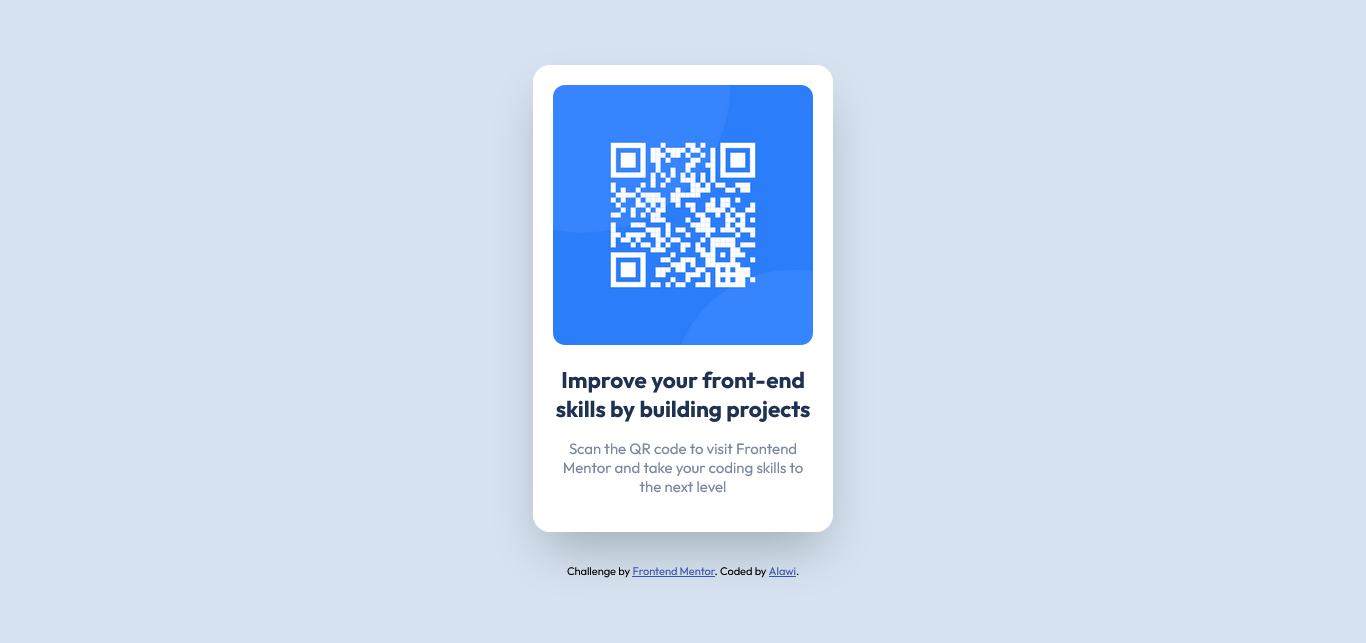
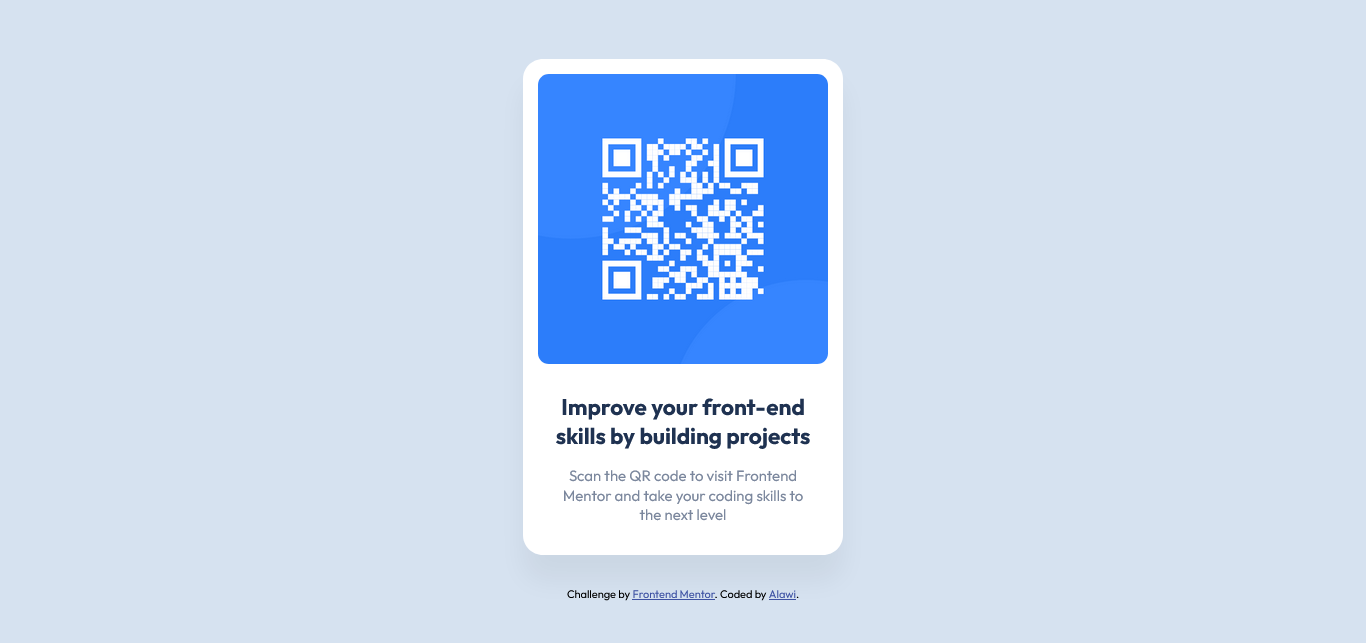
some changes

Changed region(s): [[0.369, 0.0933, 0.6149, 0.9331]]

diff --git a/style.css b/style.css
@@ -25,26 +25,21 @@ body {
 
 .container {
   max-width: 320px;
-}
-
-@media (min-width: 375px) {
-  .container {
-    width: 400px;
-  }
+  margin: 1.075rem;
 }
 
 .card {
   background-color: var(--white);
-  padding: 1.25rem;
-  border-radius: 1.063rem;
-  box-shadow: rgba(0, 0, 0, 0.25) 0px 25px 50px -12px;
+  padding: 0.938rem;
+  border-radius: 1.25rem;
+  box-shadow: 0 1.6rem 1.6rem rgba(0, 0, 0, 0.05);
   margin-bottom: 2rem;
 }
 
 .card img {
   max-width: 100%;
-  border-radius: 0.75rem;
-  margin-bottom: 1rem;
+  height: auto;
+  border-radius: 0.675rem;
 }
 
 .text {
@@ -53,12 +48,14 @@ body {
 
 .text h1 {
   color: var(--dark-blue);
-  margin-bottom: 1rem;
+  margin-top: 1.1em;
+  line-height: 1.275;
 }
 
 .text p {
   color: var(--grayish-blue);
-  margin-bottom: 1rem;
+  padding: 1rem;
+  line-height: 1.3;
 }
 
 .attribution {

diff --git a/index.html b/index.html
@@ -3,6 +3,7 @@
   <head>
     <meta charset="UTF-8" />
     <meta name="viewport" content="width=device-width, initial-scale=1.0" />
+    <meta name="author" content="Alawi" />
     <!-- displays site properly based on user's device -->
 
     <link
@@ -11,8 +12,7 @@
       sizes="32x32"
       href="./images/favicon-32x32.png"
     />
-
-    <link rel="stylesheet" href="style.css" />
+    <link rel="stylesheet" href="./style.css" />
 
     <title>Frontend Mentor | QR code component</title>
   </head>

diff --git a/README.md b/README.md
@@ -33,10 +33,8 @@ This is a solution to the [QR code component challenge on Frontend Mentor](https
 
 ## Author
 
-- Website - [SYD]()
 - Frontend Mentor - [@alawi17](https://www.frontendmentor.io/profile/alawi17)
-- Twitter - [@SydAlawie](https://www.twitter.com/SydAlawie)
 
 ## Acknowledgments
 
-Thanks to Mr Coder and TsbSankara on YouTube, they really help me to get this solution done.
+Thanks to Mr Coder, Andreas Remdt and TsbSankara on YouTube, they really help me to get this solution done.
